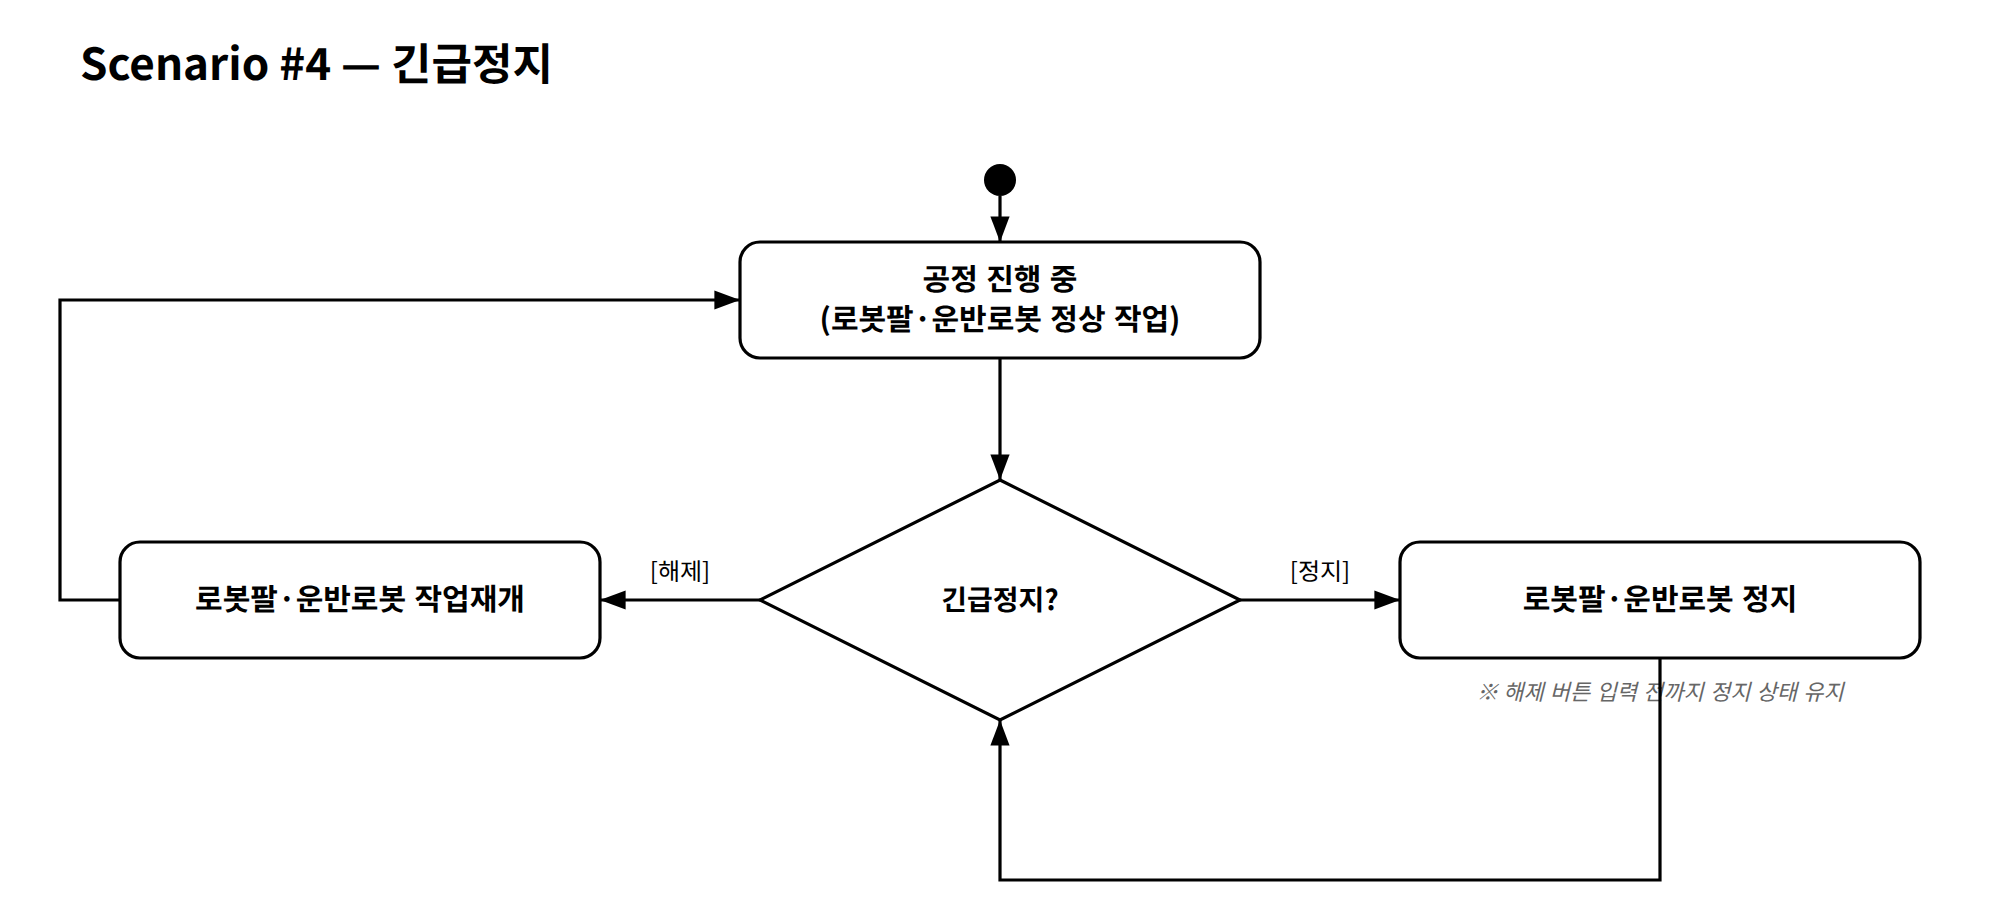
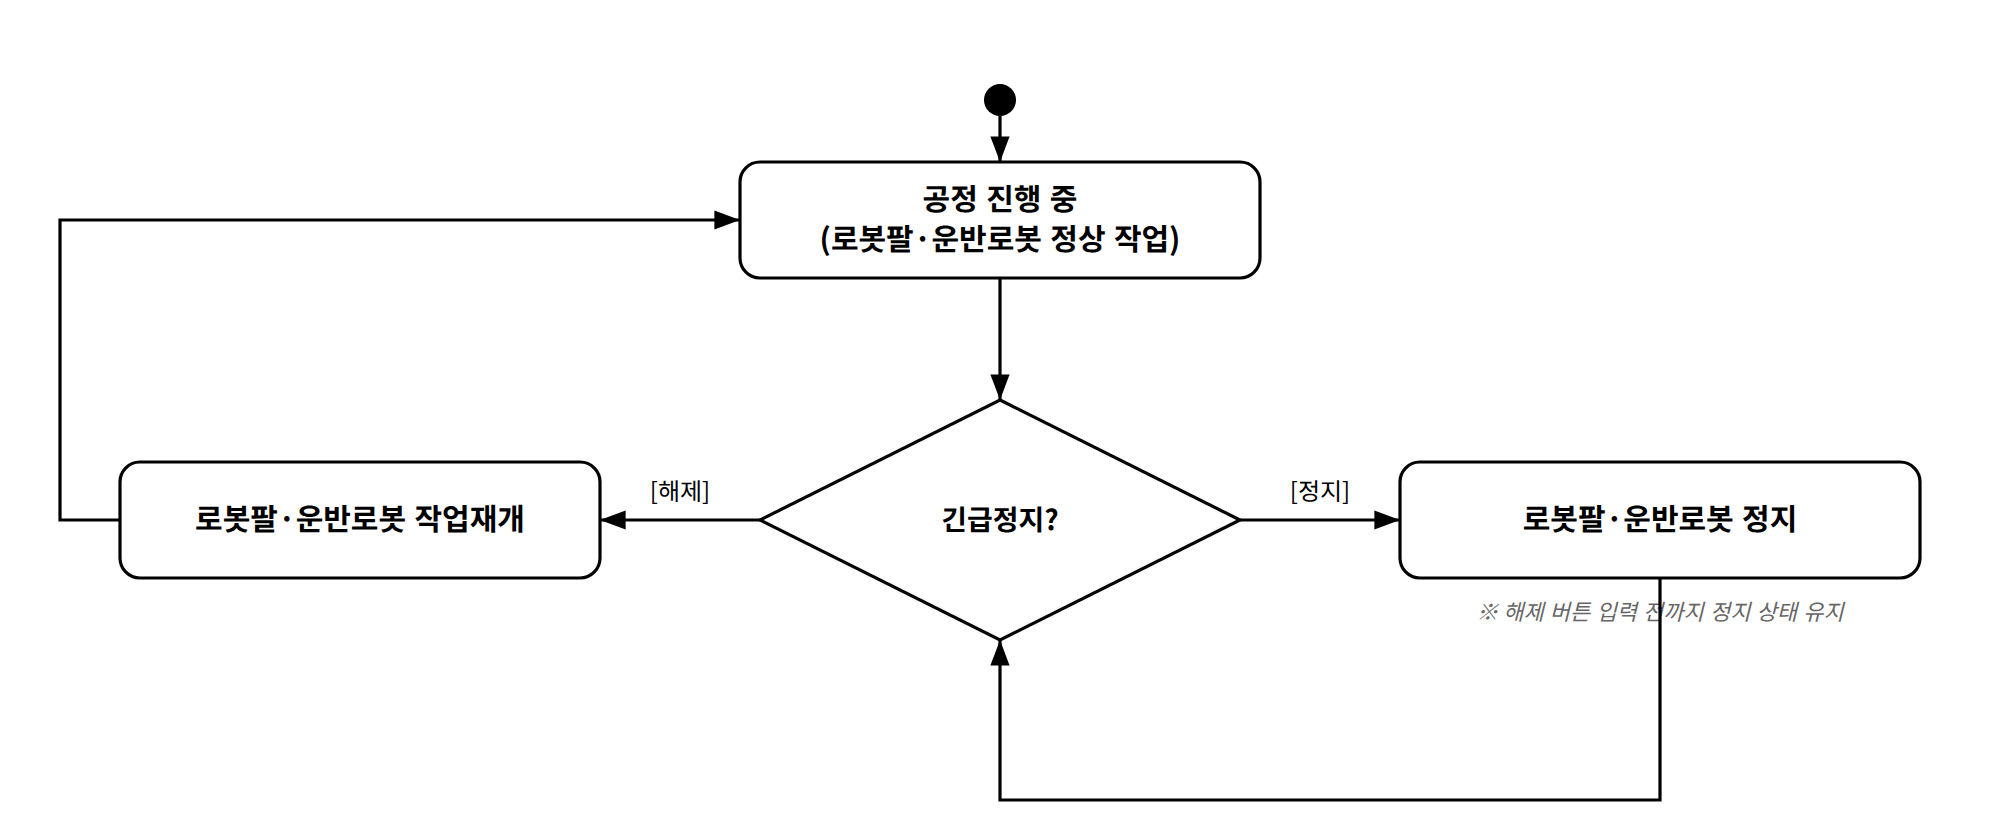
docs: 상태 다이어그램 그림 안의 Scenario #1~#4 제목 제거 (README 소제목과 중복)

diff --git a/assets/state/state-process.html b/assets/state/state-process.html
@@ -11,9 +11,8 @@
 </head>
 <body>
 <div class="frame">
-<svg viewBox="0 0 800 770" xmlns="http://www.w3.org/2000/svg">
+<svg viewBox="0 40 800 730" xmlns="http://www.w3.org/2000/svg">
 <rect x="0" y="0" width="800" height="770" fill="white"/>
-<text x="40" y="40" font-family="Malgun Gothic, Apple SD Gothic Neo, Noto Sans KR, sans-serif" font-size="22" font-weight="bold" fill="black">Scenario #1 &#8212; 공정 기본 사이클</text>
 <text x="40" y="68" font-family="Malgun Gothic, Apple SD Gothic Neo, Noto Sans KR, sans-serif" font-size="14" fill="#333">&#8226; 공정 기본 사이클 중 긴급정지는 Scenario #4 참고</text>
 <g transform="translate(0,90)">
 <defs><marker id="arrowhead" markerWidth="10" markerHeight="10" refX="8" refY="3" orient="auto"><polygon points="0,0 8,3 0,6" fill="black"/></marker></defs>

diff --git a/assets/state/state-inventory.html b/assets/state/state-inventory.html
@@ -11,9 +11,8 @@
 </head>
 <body>
 <div class="frame">
-<svg viewBox="0 0 1000 540" xmlns="http://www.w3.org/2000/svg">
+<svg viewBox="0 40 1000 500" xmlns="http://www.w3.org/2000/svg">
 <rect x="0" y="0" width="1000" height="540" fill="white"/>
-<text x="40" y="40" font-family="Malgun Gothic, Apple SD Gothic Neo, Noto Sans KR, sans-serif" font-size="22" font-weight="bold" fill="black">Scenario #3 &#8212; 시뮬레이션-현실 재고 동기화</text>
 <g transform="translate(0,60)">
 <defs><marker id="arrowhead" markerWidth="10" markerHeight="10" refX="8" refY="3" orient="auto"><polygon points="0,0 8,3 0,6" fill="black"/></marker></defs>
 <circle cx="500" cy="30" r="8" fill="black"/>

diff --git a/assets/state/state-safety.html b/assets/state/state-safety.html
@@ -11,9 +11,8 @@
 </head>
 <body>
 <div class="frame">
-<svg viewBox="0 0 1230 891" xmlns="http://www.w3.org/2000/svg">
+<svg viewBox="0 40 1230 851" xmlns="http://www.w3.org/2000/svg">
 <rect x="0" y="0" width="1230" height="891" fill="white"/>
-<text x="40" y="40" font-family="Malgun Gothic, Apple SD Gothic Neo, Noto Sans KR, sans-serif" font-size="22" font-weight="bold" fill="black">Scenario #2 &#8212; 위험 상황 예측 (결로예방)</text>
 <g transform="translate(0,70)">
 <defs><marker id="arrowhead" markerWidth="10" markerHeight="10" refX="8" refY="3" orient="auto"><polygon points="0,0 8,3 0,6" fill="black"/></marker></defs>
 <circle cx="560" cy="40" r="8" fill="black"/>

diff --git a/assets/state/state-estop.html b/assets/state/state-estop.html
@@ -11,9 +11,8 @@
 </head>
 <body>
 <div class="frame">
-<svg viewBox="0 0 1000 460" xmlns="http://www.w3.org/2000/svg">
+<svg viewBox="0 40 1000 420" xmlns="http://www.w3.org/2000/svg">
 <rect x="0" y="0" width="1000" height="460" fill="white"/>
-<text x="40" y="40" font-family="Malgun Gothic, Apple SD Gothic Neo, Noto Sans KR, sans-serif" font-size="22" font-weight="bold" fill="black">Scenario #4 &#8212; 긴급정지</text>
 <g transform="translate(0,60)">
 <defs><marker id="arrowhead" markerWidth="10" markerHeight="10" refX="8" refY="3" orient="auto"><polygon points="0,0 8,3 0,6" fill="black"/></marker></defs>
 <circle cx="500" cy="30" r="8" fill="black"/>
